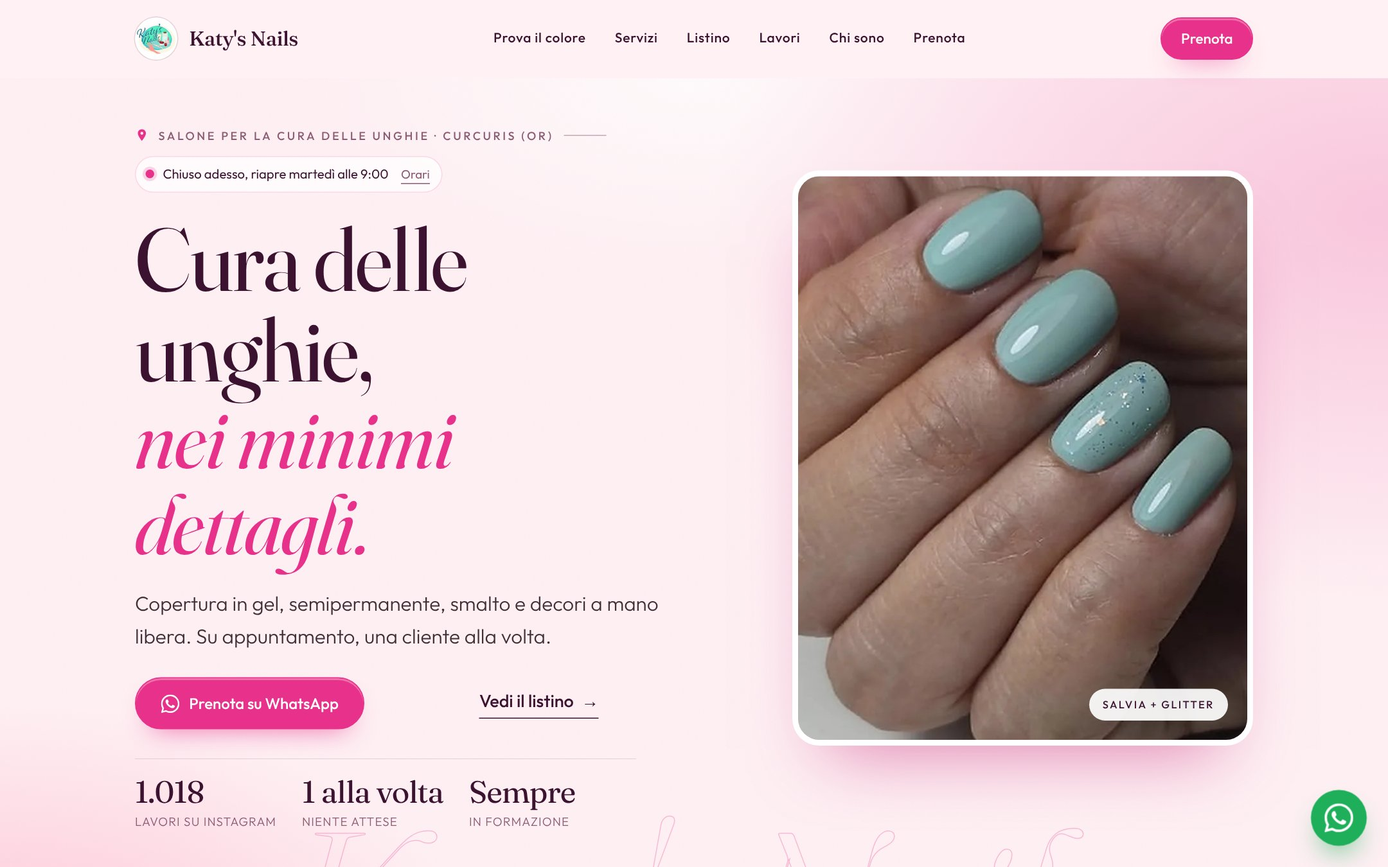
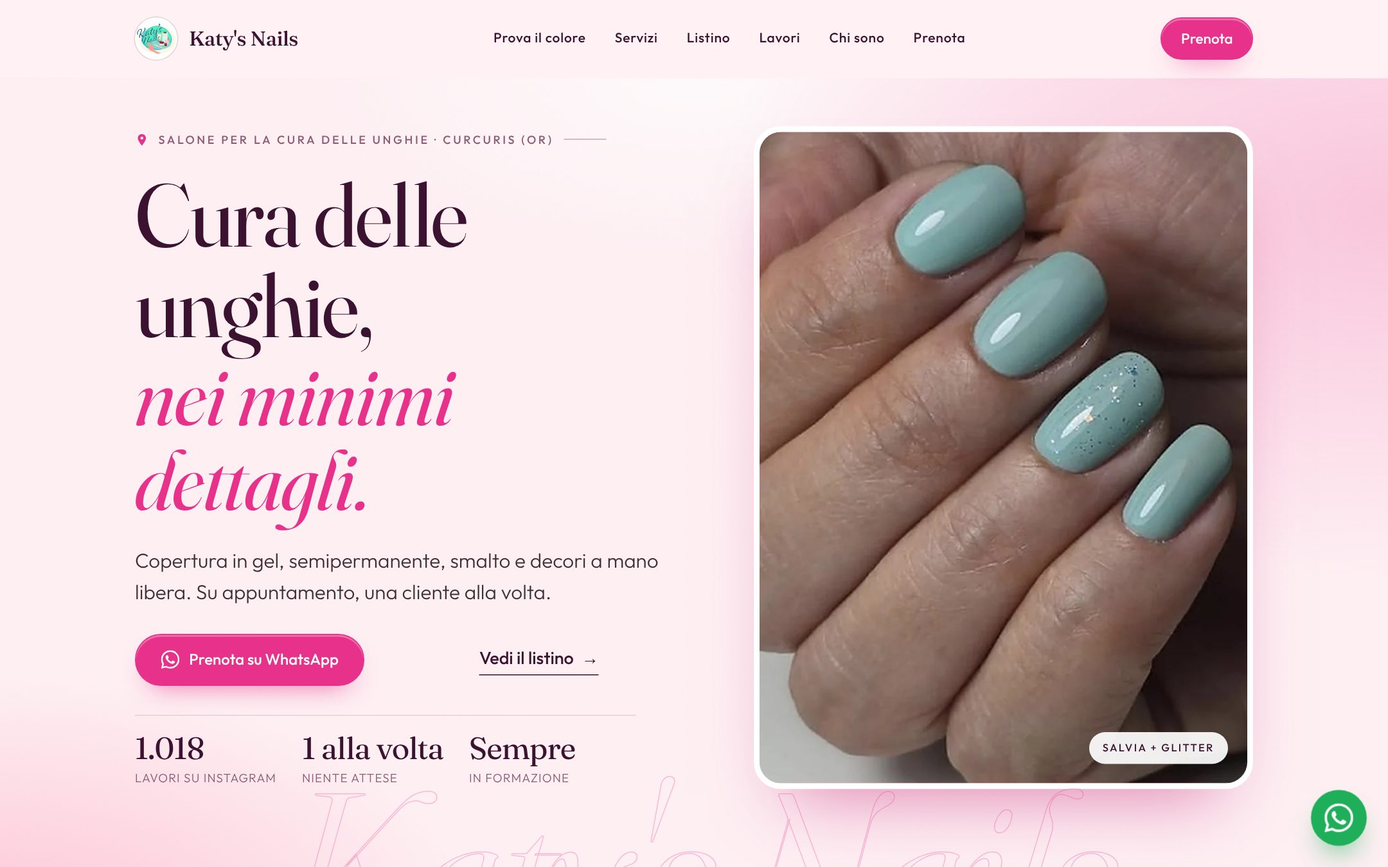
Apertura: tornano tutte le foto, riquadro che si adatta, via lo stato aperto/chiuso
- Le foto con la stellina si alternano di nuovo in apertura, anche quelle
  orizzontali: il riquadro cambia proporzione (da 3:4 a 3:2) con una
  transizione morbida invece di ingrandire la foto per riempirlo.
- Su computer lo spazio della foto più alta resta riservato, così la pagina
  non salta; su telefono il cambio foto si ferma quando l'apertura non è
  in vista.
- Tolta la riga "Chiuso adesso / Orari" dall'apertura: lo stato resta solo
  nella sezione Prenota.
- Tolta la seconda foto piccola sovrapposta e l'avviso "foto orizzontale"
  nel pannello.
- Anteprima statica e schermate dell'apertura rigenerate; test del
  pannello 29/29.

Claude-Session: https://claude.ai/code/session_01W7HbZyGkFPDAda3KWqu4ya

diff --git a/anteprima/index.html b/anteprima/index.html
@@ -24,7 +24,7 @@
 <link rel="preload" href="../da-caricare/assets/fonts/fraunces-latin-normal-300-700.woff2" as="font" type="font/woff2" crossorigin>
 <link rel="preload" href="../da-caricare/assets/fonts/fraunces-latin-italic-300-700.woff2" as="font" type="font/woff2" crossorigin>
 <link rel="preload" href="../da-caricare/assets/fonts/outfit-latin-normal-300-800.woff2" as="font" type="font/woff2" crossorigin>
-<link rel="stylesheet" href="../da-caricare/assets/css/site.css?v=1795297049">
+<link rel="stylesheet" href="../da-caricare/assets/css/site.css?v=1795297654">
 <script>document.documentElement.classList.add('js')</script>
 <script type="application/ld+json">{"@context":"https://schema.org","@type":"NailSalon","name":"Katy's Nails","url":"http://anteprima.local/","image":"http://anteprima.local/assets/img/og.jpg","logo":"http://anteprima.local/assets/img/logo.jpg","telephone":"+39 349 413 6132","address":{"@type":"PostalAddress","streetAddress":"Via Grazia Deledda 2a","addressLocality":"Curcuris","addressRegion":"OR","addressCountry":"IT"},"openingHoursSpecification":[{"@type":"OpeningHoursSpecification","dayOfWeek":"Tuesday","opens":"09:00","closes":"13:00"},{"@type":"OpeningHoursSpecification","dayOfWeek":"Tuesday","opens":"15:00","closes":"19:00"},{"@type":"OpeningHoursSpecification","dayOfWeek":"Wednesday","opens":"09:00","closes":"13:00"},{"@type":"OpeningHoursSpecification","dayOfWeek":"Wednesday","opens":"15:00","closes":"19:00"},{"@type":"OpeningHoursSpecification","dayOfWeek":"Thursday","opens":"09:00","closes":"13:00"},{"@type":"OpeningHoursSpecification","dayOfWeek":"Thursday","opens":"15:00","closes":"19:00"},{"@type":"OpeningHoursSpecification","dayOfWeek":"Friday","opens":"09:00","closes":"13:00"},{"@type":"OpeningHoursSpecification","dayOfWeek":"Friday","opens":"15:00","closes":"19:00"},{"@type":"OpeningHoursSpecification","dayOfWeek":"Saturday","opens":"09:00","closes":"14:00"}],"sameAs":["https://www.instagram.com/katys.nails.studio90/"]}</script>
 </head>
@@ -48,7 +48,6 @@
   <div class="wrap hero-grid">
     <div class="hero-text">
       <p class="kicker up" style="--d:0"><svg viewBox="0 0 24 24" aria-hidden="true" class="ico"><path fill="currentColor" d="M12 2C8.13 2 5 5.13 5 9c0 5.25 7 13 7 13s7-7.75 7-13c0-3.87-3.13-7-7-7zm0 9.5a2.5 2.5 0 010-5 2.5 2.5 0 010 5z"/></svg><span>Salone per la cura delle unghie · Curcuris (OR)</span></p>
-      <p class="hero-open up" style="--d:0" id="hero-status" hidden><i></i><span></span><a href="#prenota">Orari</a></p>
       <h1><span class="up" style="--d:1">Cura delle unghie,</span> <em class="script up" style="--d:2">nei minimi dettagli.</em></h1>
       <p class="lead up" style="--d:3">Copertura in gel, semipermanente, smalto e decori a mano libera. Su appuntamento, una cliente alla volta.</p>
       <div class="cta up" style="--d:4">
@@ -58,13 +57,13 @@
             <dl class="facts up" style="--d:5">
         <div><dt data-count="1018">1.018</dt><dd>lavori su Instagram</dd></div><div><dt>1 alla volta</dt><dd>niente attese</dd></div><div><dt>Sempre</dt><dd>in formazione</dd></div>      </dl>
           </div>
-        <div class="hero-media pop">
-      <figure class="visual" data-slides="[]">
-        <div class="slides"><img src="../da-caricare/uploads/20261121-7a33137fe847.webp" alt="Salvia + glitter" class="on" width="800" height="1000" fetchpriority="high"></div>
+        <div class="hero-media pop" style="--ratio-min:0.7521">
+      <figure class="visual" style="--ratio:0.7521" data-slides="[{&quot;src&quot;:&quot;../da-caricare/uploads/20261121-e12d07703976.webp&quot;,&quot;cap&quot;:&quot;Rosa fragola lucido&quot;,&quot;r&quot;:1.5},{&quot;src&quot;:&quot;../da-caricare/uploads/20261121-0f730c578a9b.webp&quot;,&quot;cap&quot;:&quot;French sottile&quot;,&quot;r&quot;:1.5},{&quot;src&quot;:&quot;../da-caricare/uploads/20261121-e0dcf2bb16c1.webp&quot;,&quot;cap&quot;:&quot;Rosa latte&quot;,&quot;r&quot;:1.5}]">
+        <div class="slides"><img src="../da-caricare/uploads/20261121-7a33137fe847.webp" alt="Salvia + glitter" class="on" width="710" height="944" fetchpriority="high"></div>
         <span class="shine" aria-hidden="true"></span>
         <figcaption><span id="hero-cap">Salvia + glitter</span></figcaption>
       </figure>
-          </div>
+    </div>
       </div>
   <div class="hero-mark" aria-hidden="true">Katy&#039;s Nails</div>
 </section>
@@ -347,6 +346,6 @@
   <a class="ab-wa" href="https://wa.me/393494136132?text=Ciao%20Katy%21%20Vorrei%20prenotare%20un%20appuntamento." target="_blank" rel="noopener"><svg viewBox="0 0 24 24" aria-hidden="true" class="ico"><path fill="currentColor" d="M17.472 14.382c-.297-.149-1.758-.867-2.03-.967-.273-.099-.471-.148-.67.15-.197.297-.767.966-.94 1.164-.173.199-.347.223-.644.075-.297-.15-1.255-.463-2.39-1.475-.883-.788-1.48-1.761-1.653-2.059-.173-.297-.018-.458.13-.606.134-.133.298-.347.446-.52.149-.174.198-.298.298-.497.099-.198.05-.371-.025-.52-.075-.149-.669-1.612-.916-2.207-.242-.579-.487-.5-.669-.51-.173-.008-.371-.01-.57-.01-.198 0-.52.074-.792.372-.272.297-1.04 1.016-1.04 2.479 0 1.462 1.065 2.875 1.213 3.074.149.198 2.096 3.2 5.077 4.487.709.306 1.262.489 1.694.625.712.227 1.36.195 1.871.118.571-.085 1.758-.719 2.006-1.413.248-.694.248-1.289.173-1.413-.074-.124-.272-.198-.57-.347m-5.421 7.403h-.004a9.87 9.87 0 01-5.031-1.378l-.361-.214-3.741.982.998-3.648-.235-.374a9.86 9.86 0 01-1.51-5.26c.001-5.45 4.436-9.884 9.888-9.884 2.64 0 5.122 1.03 6.988 2.898a9.825 9.825 0 012.893 6.994c-.003 5.45-4.437 9.884-9.885 9.884m8.413-18.297A11.815 11.815 0 0012.05 0C5.495 0 .16 5.335.157 11.892c0 2.096.547 4.142 1.588 5.945L.057 24l6.305-1.654a11.882 11.882 0 005.683 1.448h.005c6.554 0 11.89-5.335 11.893-11.893a11.821 11.821 0 00-3.48-8.413z"/></svg>WhatsApp</a>
 </div>
 <a class="wa-float" href="https://wa.me/393494136132?text=Ciao%20Katy%21%20Vorrei%20prenotare%20un%20appuntamento." target="_blank" rel="noopener" aria-label="Scrivi a Katy&#039;s Nails su WhatsApp"><svg viewBox="0 0 24 24" aria-hidden="true" class="ico"><path fill="currentColor" d="M17.472 14.382c-.297-.149-1.758-.867-2.03-.967-.273-.099-.471-.148-.67.15-.197.297-.767.966-.94 1.164-.173.199-.347.223-.644.075-.297-.15-1.255-.463-2.39-1.475-.883-.788-1.48-1.761-1.653-2.059-.173-.297-.018-.458.13-.606.134-.133.298-.347.446-.52.149-.174.198-.298.298-.497.099-.198.05-.371-.025-.52-.075-.149-.669-1.612-.916-2.207-.242-.579-.487-.5-.669-.51-.173-.008-.371-.01-.57-.01-.198 0-.52.074-.792.372-.272.297-1.04 1.016-1.04 2.479 0 1.462 1.065 2.875 1.213 3.074.149.198 2.096 3.2 5.077 4.487.709.306 1.262.489 1.694.625.712.227 1.36.195 1.871.118.571-.085 1.758-.719 2.006-1.413.248-.694.248-1.289.173-1.413-.074-.124-.272-.198-.57-.347m-5.421 7.403h-.004a9.87 9.87 0 01-5.031-1.378l-.361-.214-3.741.982.998-3.648-.235-.374a9.86 9.86 0 01-1.51-5.26c.001-5.45 4.436-9.884 9.888-9.884 2.64 0 5.122 1.03 6.988 2.898a9.825 9.825 0 012.893 6.994c-.003 5.45-4.437 9.884-9.885 9.884m8.413-18.297A11.815 11.815 0 0012.05 0C5.495 0 .16 5.335.157 11.892c0 2.096.547 4.142 1.588 5.945L.057 24l6.305-1.654a11.882 11.882 0 005.683 1.448h.005c6.554 0 11.89-5.335 11.893-11.893a11.821 11.821 0 00-3.48-8.413z"/></svg></a>
-<script src="../da-caricare/assets/js/site.js?v=1795295909" defer></script>
+<script src="../da-caricare/assets/js/site.js?v=1795297319" defer></script>
 </body>
 </html>

diff --git a/da-caricare/assets/css/site.css b/da-caricare/assets/css/site.css
@@ -103,13 +103,7 @@ em.script,.script{font-family:var(--serif);font-style:italic;font-weight:400;let
 /* ---------- apertura ---------- */
 .hero{background:radial-gradient(70% 60% at 100% 15%,rgba(232,49,138,.22),transparent 70%),radial-gradient(50% 45% at 0% 100%,rgba(255,157,188,.55),transparent 70%),radial-gradient(40% 30% at 50% 0%,rgba(255,255,255,.7),transparent 70%),var(--crema);padding:26px 0 70px;overflow:hidden}
 .hero-grid{display:grid;gap:34px}
-.hero .kicker{margin-bottom:12px}
-.hero-open{display:inline-flex;align-items:center;gap:9px;margin:0 0 22px;padding:7px 12px 7px 10px;border-radius:999px;background:rgba(255,255,255,.75);border:1px solid rgba(232,49,138,.18);font-size:13.5px;font-weight:400;color:var(--ink)}
-.hero-open i{width:9px;height:9px;border-radius:50%;background:var(--dot,#bbb);flex:none;box-shadow:0 0 0 3px var(--dot-alone,rgba(0,0,0,.08))}
-.hero-open.si{--dot-alone:rgba(31,138,99,.22)}.hero-open.no{--dot-alone:rgba(232,49,138,.2)}
-.hero-open.si{--dot:var(--verde)}.hero-open.no{--dot:var(--fragola)}
-.hero-open a{color:var(--muted);text-decoration:none;border-bottom:1px solid currentColor;font-size:12.5px;margin-left:4px}
-.hero-open a:hover{color:var(--ink)}
+.hero .kicker{margin-bottom:22px}
 .hero h1{font-size:clamp(46px,12.5vw,118px);font-weight:400;margin-bottom:22px}
 .hero h1 span,.hero h1 em{display:block}
 .hero h1 em{margin-top:.02em;font-size:.94em}
@@ -119,17 +113,16 @@ em.script,.script{font-family:var(--serif);font-style:italic;font-weight:400;let
 .facts div{min-width:0;padding-right:10px}
 .facts dt{font-family:var(--serif);font-size:clamp(20px,5.4vw,32px);font-weight:400;line-height:1;color:var(--ink);letter-spacing:-.02em}
 .facts dd{margin:6px 0 0;font-size:12.5px;letter-spacing:.06em;text-transform:uppercase;color:var(--muted);line-height:1.3}
-.hero-media{position:relative;padding:0 0 30px 0}
-.visual{position:relative;margin:0;border-radius:28px;overflow:hidden;aspect-ratio:4/5;background:var(--rosa);border:6px solid #fff;box-shadow:0 40px 70px -36px rgba(196,30,115,.55);isolation:isolate}
+.hero-media{position:relative;padding:0}
+@property --ratio{syntax:"<number>";inherits:false;initial-value:.8}
+.visual{position:relative;margin:0;border-radius:28px;overflow:hidden;aspect-ratio:var(--ratio,.8);transition:--ratio .9s cubic-bezier(.2,.7,.2,1),aspect-ratio .9s cubic-bezier(.2,.7,.2,1);background:var(--rosa);border:6px solid #fff;box-shadow:0 40px 70px -36px rgba(196,30,115,.55);isolation:isolate}
 .visual .slides{position:absolute;top:0;right:0;bottom:0;left:0}
-.visual .slides img{position:absolute;inset:0;width:100%;height:100%;object-fit:cover;opacity:0;transform:scale(1.06);transition:opacity 1.2s ease,transform 6s ease-out}
+.visual .slides img{position:absolute;top:0;right:0;bottom:0;left:0;width:100%;height:100%;object-fit:cover;opacity:0;transform:scale(1.04);transition:opacity 1.2s ease,transform 6s ease-out}
 .visual .slides img.on{opacity:1;transform:scale(1)}
 .visual .shine{position:absolute;top:0;right:0;bottom:0;left:0;pointer-events:none;background:linear-gradient(105deg,transparent 40%,rgba(255,255,255,.28) 50%,transparent 60%) no-repeat;background-size:250% 100%;background-position:150% 0;animation:lucido 8s ease-in-out 2s infinite}
 @keyframes lucido{0%{background-position:150% 0}20%,100%{background-position:-60% 0}}
 .visual figcaption{position:absolute;right:20px;bottom:20px;max-width:60%;padding:8px 14px;border-radius:999px;background:rgba(255,255,255,.92);color:var(--ink);font-size:11px;font-weight:500;letter-spacing:.14em;text-transform:uppercase;white-space:nowrap;overflow:hidden;text-overflow:ellipsis;z-index:2;transition:opacity .4s}
 .visual figcaption.fade{opacity:0}
-.visual-2{position:absolute;margin:0;width:34%;left:-6px;bottom:0;border-radius:18px;overflow:hidden;border:6px solid #fff;box-shadow:0 24px 40px -22px rgba(196,30,115,.55);aspect-ratio:1/1;background:var(--rosa)}
-.visual-2 img{width:100%;height:100%;object-fit:cover}
 .hero-mark{position:absolute;left:0;right:0;bottom:-.12em;font-family:var(--serif);font-style:italic;font-weight:300;font-size:clamp(80px,18vw,230px);line-height:1;white-space:nowrap;text-align:center;color:transparent;-webkit-text-stroke:1px rgba(232,49,138,.28);pointer-events:none;user-select:none;letter-spacing:-.02em}
 @media (min-width:980px){
   .hero{padding:50px 0 170px}
@@ -137,9 +130,8 @@ em.script,.script{font-family:var(--serif);font-style:italic;font-weight:400;let
   .hero h1{font-size:clamp(60px,6.4vw,96px)}
   .cta{grid-auto-flow:column;gap:28px}
   .facts{max-width:520px}
-  .hero-media{padding:0 0 40px 40px;display:flex;justify-content:flex-end}
-  .visual{max-width:500px;width:100%;transform:none}
-  .visual-2{width:38%;left:0;bottom:10px}
+  .hero-media{padding:0;display:flex;align-items:center;width:100%;max-width:520px;margin-left:auto;aspect-ratio:var(--ratio-min,.8)} /* tiene lo spazio della foto più alta: la pagina non salta quando cambia foto */
+  .visual{width:100%}
 }
 
 /* nastro dei servizi */
@@ -463,11 +455,11 @@ details[open] .q-i::after{transform:translate(-50%,-50%) rotate(0)}
 
 /* ---------- riserve per browser vecchi (Samsung Internet < 14, Chrome < 88): niente aspect-ratio, inset, gap su flex ---------- */
 @supports not (aspect-ratio:1/1){
-  .visual,.stage,.shot,.ba-box,.svc-pic,.portrait img,.visual-2,.svc-stage,.voucher{height:auto}
+  .visual,.stage,.shot,.ba-box,.svc-pic,.portrait img,.svc-stage,.voucher{height:auto}
   .visual::before{content:"";display:block;padding-top:125%}
   .visual .slides{position:absolute;top:0;left:0;right:0;bottom:0}
-  .visual-2::before,.shot::before,.ba-box::before,.svc-pic::before{content:"";display:block;padding-top:100%}
-  .shot img,.visual-2 img,.ba-box img,.svc-pic img{position:absolute;top:0;left:0;width:100%;height:100%}
+  .shot::before,.ba-box::before,.svc-pic::before{content:"";display:block;padding-top:100%}
+  .shot img,.ba-box img,.svc-pic img{position:absolute;top:0;left:0;width:100%;height:100%}
   .stage::before{content:"";display:block;padding-top:87.5%}
   .stage .layers{top:0;left:0;right:0;width:100%;height:auto}
   .stage .layers::before{content:"";display:block;padding-top:133%}

diff --git a/anteprima/privacy.html b/anteprima/privacy.html
@@ -24,7 +24,7 @@
 <link rel="preload" href="../da-caricare/assets/fonts/fraunces-latin-normal-300-700.woff2" as="font" type="font/woff2" crossorigin>
 <link rel="preload" href="../da-caricare/assets/fonts/fraunces-latin-italic-300-700.woff2" as="font" type="font/woff2" crossorigin>
 <link rel="preload" href="../da-caricare/assets/fonts/outfit-latin-normal-300-800.woff2" as="font" type="font/woff2" crossorigin>
-<link rel="stylesheet" href="../da-caricare/assets/css/site.css?v=1795297049">
+<link rel="stylesheet" href="../da-caricare/assets/css/site.css?v=1795297654">
 <script>document.documentElement.classList.add('js')</script>
 </head>
 <body><div style="background:#2E1F28;color:#fff;font:500 13px/1.4 system-ui,sans-serif;text-align:center;padding:8px 12px">Anteprima del sito · il pannello di gestione funziona solo quando il sito è online su un hosting con PHP</div>
@@ -98,6 +98,6 @@
   <a class="ab-wa" href="https://wa.me/393494136132?text=Ciao%20Katy%21%20Vorrei%20prenotare%20un%20appuntamento." target="_blank" rel="noopener"><svg viewBox="0 0 24 24" aria-hidden="true" class="ico"><path fill="currentColor" d="M17.472 14.382c-.297-.149-1.758-.867-2.03-.967-.273-.099-.471-.148-.67.15-.197.297-.767.966-.94 1.164-.173.199-.347.223-.644.075-.297-.15-1.255-.463-2.39-1.475-.883-.788-1.48-1.761-1.653-2.059-.173-.297-.018-.458.13-.606.134-.133.298-.347.446-.52.149-.174.198-.298.298-.497.099-.198.05-.371-.025-.52-.075-.149-.669-1.612-.916-2.207-.242-.579-.487-.5-.669-.51-.173-.008-.371-.01-.57-.01-.198 0-.52.074-.792.372-.272.297-1.04 1.016-1.04 2.479 0 1.462 1.065 2.875 1.213 3.074.149.198 2.096 3.2 5.077 4.487.709.306 1.262.489 1.694.625.712.227 1.36.195 1.871.118.571-.085 1.758-.719 2.006-1.413.248-.694.248-1.289.173-1.413-.074-.124-.272-.198-.57-.347m-5.421 7.403h-.004a9.87 9.87 0 01-5.031-1.378l-.361-.214-3.741.982.998-3.648-.235-.374a9.86 9.86 0 01-1.51-5.26c.001-5.45 4.436-9.884 9.888-9.884 2.64 0 5.122 1.03 6.988 2.898a9.825 9.825 0 012.893 6.994c-.003 5.45-4.437 9.884-9.885 9.884m8.413-18.297A11.815 11.815 0 0012.05 0C5.495 0 .16 5.335.157 11.892c0 2.096.547 4.142 1.588 5.945L.057 24l6.305-1.654a11.882 11.882 0 005.683 1.448h.005c6.554 0 11.89-5.335 11.893-11.893a11.821 11.821 0 00-3.48-8.413z"/></svg>WhatsApp</a>
 </div>
 <a class="wa-float" href="https://wa.me/393494136132?text=Ciao%20Katy%21%20Vorrei%20prenotare%20un%20appuntamento." target="_blank" rel="noopener" aria-label="Scrivi a Katy&#039;s Nails su WhatsApp"><svg viewBox="0 0 24 24" aria-hidden="true" class="ico"><path fill="currentColor" d="M17.472 14.382c-.297-.149-1.758-.867-2.03-.967-.273-.099-.471-.148-.67.15-.197.297-.767.966-.94 1.164-.173.199-.347.223-.644.075-.297-.15-1.255-.463-2.39-1.475-.883-.788-1.48-1.761-1.653-2.059-.173-.297-.018-.458.13-.606.134-.133.298-.347.446-.52.149-.174.198-.298.298-.497.099-.198.05-.371-.025-.52-.075-.149-.669-1.612-.916-2.207-.242-.579-.487-.5-.669-.51-.173-.008-.371-.01-.57-.01-.198 0-.52.074-.792.372-.272.297-1.04 1.016-1.04 2.479 0 1.462 1.065 2.875 1.213 3.074.149.198 2.096 3.2 5.077 4.487.709.306 1.262.489 1.694.625.712.227 1.36.195 1.871.118.571-.085 1.758-.719 2.006-1.413.248-.694.248-1.289.173-1.413-.074-.124-.272-.198-.57-.347m-5.421 7.403h-.004a9.87 9.87 0 01-5.031-1.378l-.361-.214-3.741.982.998-3.648-.235-.374a9.86 9.86 0 01-1.51-5.26c.001-5.45 4.436-9.884 9.888-9.884 2.64 0 5.122 1.03 6.988 2.898a9.825 9.825 0 012.893 6.994c-.003 5.45-4.437 9.884-9.885 9.884m8.413-18.297A11.815 11.815 0 0012.05 0C5.495 0 .16 5.335.157 11.892c0 2.096.547 4.142 1.588 5.945L.057 24l6.305-1.654a11.882 11.882 0 005.683 1.448h.005c6.554 0 11.89-5.335 11.893-11.893a11.821 11.821 0 00-3.48-8.413z"/></svg></a>
-<script src="../da-caricare/assets/js/site.js?v=1795295909" defer></script>
+<script src="../da-caricare/assets/js/site.js?v=1795297319" defer></script>
 </body>
 </html>

diff --git a/da-caricare/assets/js/site.js b/da-caricare/assets/js/site.js
@@ -95,8 +95,6 @@
     var mostra = function () {
       var s = calcola();
       stato.textContent = s.t; stato.className = 'status ' + (s.si ? 'si' : 'no'); stato.hidden = false;
-      var hs = $('#hero-status');
-      if (hs) { $('span', hs).textContent = s.t.replace(' · ', ', '); hs.className = 'hero-open up ' + (s.si ? 'si' : 'no'); hs.hidden = false; }
     };
     mostra();
     setInterval(mostra, 60000);
@@ -303,13 +301,13 @@
     var extra = JSON.parse(vis.getAttribute('data-slides') || '[]');
     if (extra.length) {
       var box = $('.slides', vis), heroCap = $('#hero-cap'), fig = $('figcaption', vis);
-      var lista = [{ el: $('img', box), cap: heroCap ? heroCap.textContent : '' }];
+      var lista = [{ el: $('img', box), cap: heroCap ? heroCap.textContent : '', r: parseFloat(getComputedStyle(vis).getPropertyValue('--ratio')) || 0.8 }];
       window.addEventListener('load', function () {
         extra.forEach(function (x) {
           var im = new Image();
           im.src = x.src; im.alt = x.cap || ''; im.decoding = 'async';
           box.appendChild(im);
-          lista.push({ el: im, cap: x.cap || '' });
+          lista.push({ el: im, cap: x.cap || '', r: x.r });
         });
         var i = 0;
         setInterval(function () {
@@ -318,6 +316,7 @@
           if (!lista[dopo].el.complete) return;
           lista[i].el.classList.toggle('on', false);
           lista[dopo].el.classList.toggle('on', true);
+          if (lista[dopo].r) vis.style.setProperty('--ratio', lista[dopo].r); // il riquadro si adatta alla foto
           i = dopo;
           if (fig && heroCap) {
             var testo = lista[i].cap;

diff --git a/da-caricare/assets/js/admin.js b/da-caricare/assets/js/admin.js
@@ -717,11 +717,7 @@
       put(grid, arr.map(function (g, i) {
         var cap = h('input', { type: 'text', value: g.didascalia || '', maxlength: 80, placeholder: 'Descrizione (facoltativa)', 'aria-label': 'Descrizione foto ' + (i + 1) });
         cap.addEventListener('input', function () { g.didascalia = cap.value; changed(); });
-        var orizzontale = g.w && g.h && g.h < g.w * 0.9;
-        var star = h('button', { type: 'button', class: 'star' + (g.apertura ? ' on' : ''), 'aria-pressed': String(!!g.apertura), title: orizzontale ? 'Foto orizzontale: in apertura verrebbe ingrandita troppo, quindi non viene usata' : 'Mostra questa foto nella foto grande in apertura', onclick: function () {
-          if (orizzontale && !g.apertura) { toast('Questa foto è orizzontale: in apertura verrebbe ingrandita troppo. Per l\'apertura servono foto verticali.', true); return; }
-          g.apertura = !g.apertura; changed(); paint();
-        } }, ico('star', 13), g.apertura ? 'In apertura' : 'In apertura');
+        var star = h('button', { type: 'button', class: 'star' + (g.apertura ? ' on' : ''), 'aria-pressed': String(!!g.apertura), title: 'Mostra questa foto nella foto grande in apertura', onclick: function () { g.apertura = !g.apertura; changed(); paint(); } }, ico('star', 13), 'In apertura');
         return h('div', { class: 'gi', 'data-i': i },
           h('div', { class: 'gi-img', draggable: 'true' }, h('img', { src: url(g.thumb), alt: g.didascalia || '', loading: 'lazy' }), star, h('span', { class: 'n', text: String(i + 1) })),
           h('div', { class: 'gi-b' }, cap, h('div', { class: 'gi-a' },

diff --git a/tools/test-pannello.js b/tools/test-pannello.js
@@ -82,10 +82,6 @@ const iso = d => d.toISOString().slice(0, 10);
   check((await site()).match(/class="shot/g).length === prima + 1, 'la foto compare sul sito');
   const nSlides = h => ((h.match(/data-slides="([^"]*)"/) || [, ''])[1].match(/&quot;src&quot;/g) || []).length;
   const slidesPrima = nSlides(await site());
-  // in apertura vanno solo foto verticali: ne carico una e metto la stellina a quella
-  await page.setInputFiles('.uploader input[type=file]', [process.env.FOTO_V || process.env.FOTO]);
-  await toast('aggiunta');
-  await page.waitForTimeout(400);
   await page.click('.gi >> nth=0 >> .star');
   check(await page.getAttribute('.gi >> nth=0 >> .star', 'aria-pressed') === 'true', 'la stellina "in apertura" si accende');
   await page.click('#salva');

diff --git a/da-caricare/index.php b/da-caricare/index.php
@@ -15,19 +15,21 @@ $hero = $c['hero'];
 $servizi = array_values(array_filter($c['servizi']['elenco'] ?? [], fn($x) => trim($x['nome']) !== ''));
 $galleria = $c['galleria']['foto'] ?? [];
 $heroFoto = $hero['foto'] ?: ($galleria[0]['file'] ?? '');
-$slides = [['src' => $heroFoto, 'cap' => $hero['foto_etichetta']]];
-foreach ($galleria as $g) { // le foto con la stellina "in apertura", scelte da Katy nel pannello (solo verticali o quadrate: le orizzontali verrebbero ingrandite troppo)
-    if (!empty($g['apertura']) && $g['file'] !== $heroFoto && count($slides) < 6 && $g['h'] >= $g['w'] * 0.9) {
-        $slides[] = ['src' => $g['file'], 'cap' => $g['didascalia']];
-    }
-}
-$secondaFoto = null; // la piccola foto sovrapposta in apertura: un'altra foto con la stellina
+// foto dell'apertura: la principale più quelle con la stellina. Ogni foto porta le sue proporzioni:
+// il riquadro si adatta (verticale, quadrato o orizzontale) invece di ingrandire la foto per riempirlo.
+$heroDim = ['w' => 4, 'h' => 5];
 foreach ($galleria as $g) {
-    if (!empty($g['apertura']) && $g['file'] !== $heroFoto && $g['h'] >= $g['w'] * 0.9 && !in_array($g['file'], array_column($slides, 'src'), true)) {
-        $secondaFoto = $g;
-        break;
+    if ($g['file'] === $heroFoto && !empty($g['w']) && !empty($g['h'])) {
+        $heroDim = ['w' => (int) $g['w'], 'h' => (int) $g['h']];
     }
 }
+$slides = [['src' => $heroFoto, 'cap' => $hero['foto_etichetta'], 'w' => $heroDim['w'], 'h' => $heroDim['h']]];
+foreach ($galleria as $g) {
+    if (!empty($g['apertura']) && $g['file'] !== $heroFoto && count($slides) < 6) {
+        $slides[] = ['src' => $g['file'], 'cap' => $g['didascalia'], 'w' => (int) ($g['w'] ?: 4), 'h' => (int) ($g['h'] ?: 5)];
+    }
+}
+$kn_ratio = fn(array $x) => max(0.75, min(1.5, $x['w'] / max(1, $x['h']))); // tra 3:4 e 3:2, così il riquadro non diventa mai una striscia
 // galleria senza buchi: la prima foto diventa grande solo se riempie la griglia a 4 colonne,
 // altrimenti la scheda Instagram si allarga fino a fine riga
 $nFoto = min(count($galleria), 11);
@@ -76,7 +78,6 @@ kn_page_start($c, ['jsonld' => true]);
   <div class="wrap hero-grid">
     <div class="hero-text">
       <p class="kicker up" style="--d:0"><?= KN_PIN_ICON ?><span><?= e($hero['etichetta']) ?></span></p>
-      <p class="hero-open up" style="--d:0" id="hero-status" hidden><i></i><span></span><a href="#prenota">Orari</a></p>
       <h1><span class="up" style="--d:1"><?= e($hero['titolo']) ?></span> <em class="script up" style="--d:2"><?= e($hero['titolo_script']) ?></em></h1>
       <p class="lead up" style="--d:3"><?= e($hero['sottotitolo']) ?></p>
       <div class="cta up" style="--d:4">
@@ -90,15 +91,12 @@ kn_page_start($c, ['jsonld' => true]);
       <?php endif ?>
     </div>
     <?php if ($heroFoto): ?>
-    <div class="hero-media pop">
-      <figure class="visual" data-slides="<?= e(json_encode(array_slice($slides, 1), JSON_UNESCAPED_SLASHES | JSON_UNESCAPED_UNICODE)) ?>">
-        <div class="slides"><?= kn_img_tag($heroFoto, $hero['foto_etichetta'] ?: 'Un lavoro di ' . $s['nome'], 'class="on" width="800" height="1000" fetchpriority="high"') ?></div>
+    <div class="hero-media pop" style="--ratio-min:<?= round(min(array_map($kn_ratio, $slides)), 4) ?>">
+      <figure class="visual" style="--ratio:<?= round($kn_ratio($slides[0]), 4) ?>" data-slides="<?= e(json_encode(array_map(fn($x) => ['src' => $x['src'], 'cap' => $x['cap'], 'r' => round($kn_ratio($x), 4)], array_slice($slides, 1)), JSON_UNESCAPED_SLASHES | JSON_UNESCAPED_UNICODE)) ?>">
+        <div class="slides"><?= kn_img_tag($heroFoto, $hero['foto_etichetta'] ?: 'Un lavoro di ' . $s['nome'], 'class="on" width="' . $heroDim['w'] . '" height="' . $heroDim['h'] . '" fetchpriority="high"') ?></div>
         <span class="shine" aria-hidden="true"></span>
         <figcaption<?= $hero['foto_etichetta'] ? '' : ' hidden' ?>><span id="hero-cap"><?= e($hero['foto_etichetta']) ?></span></figcaption>
       </figure>
-      <?php if ($secondaFoto): ?>
-      <figure class="visual-2"><?= kn_img_tag($secondaFoto['thumb'], $secondaFoto['didascalia'], 'width="400" height="400" loading="lazy"') ?></figure>
-      <?php endif ?>
     </div>
     <?php endif ?>
   </div>
